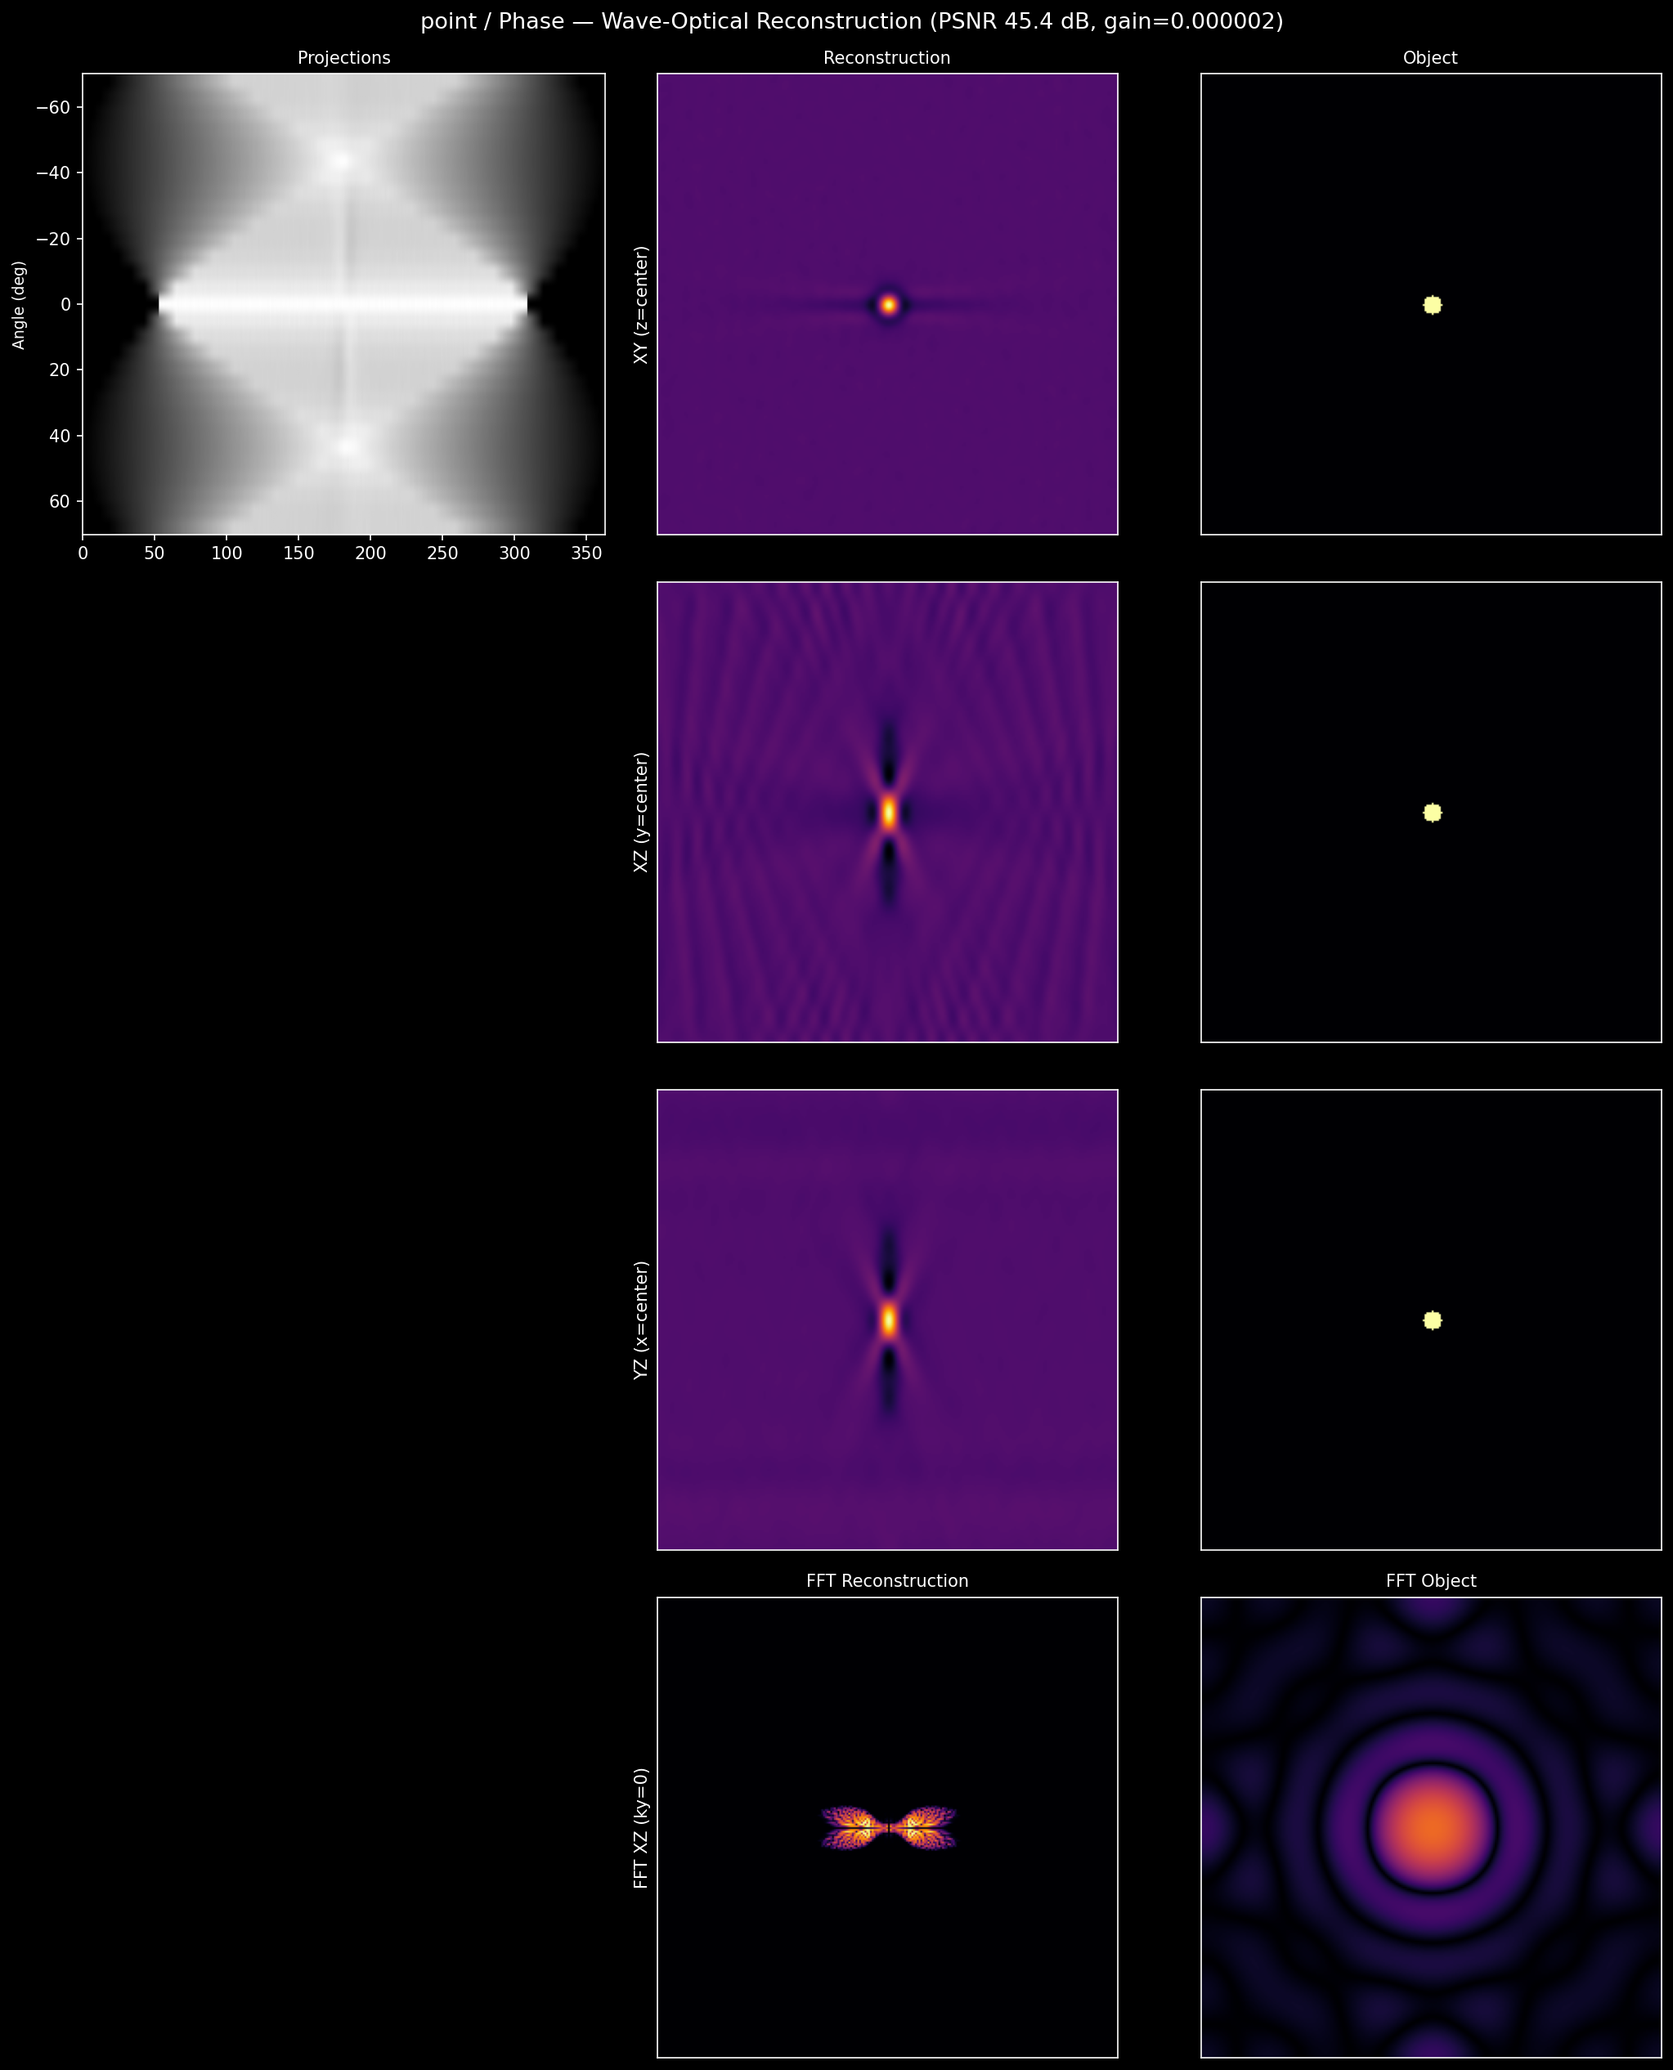
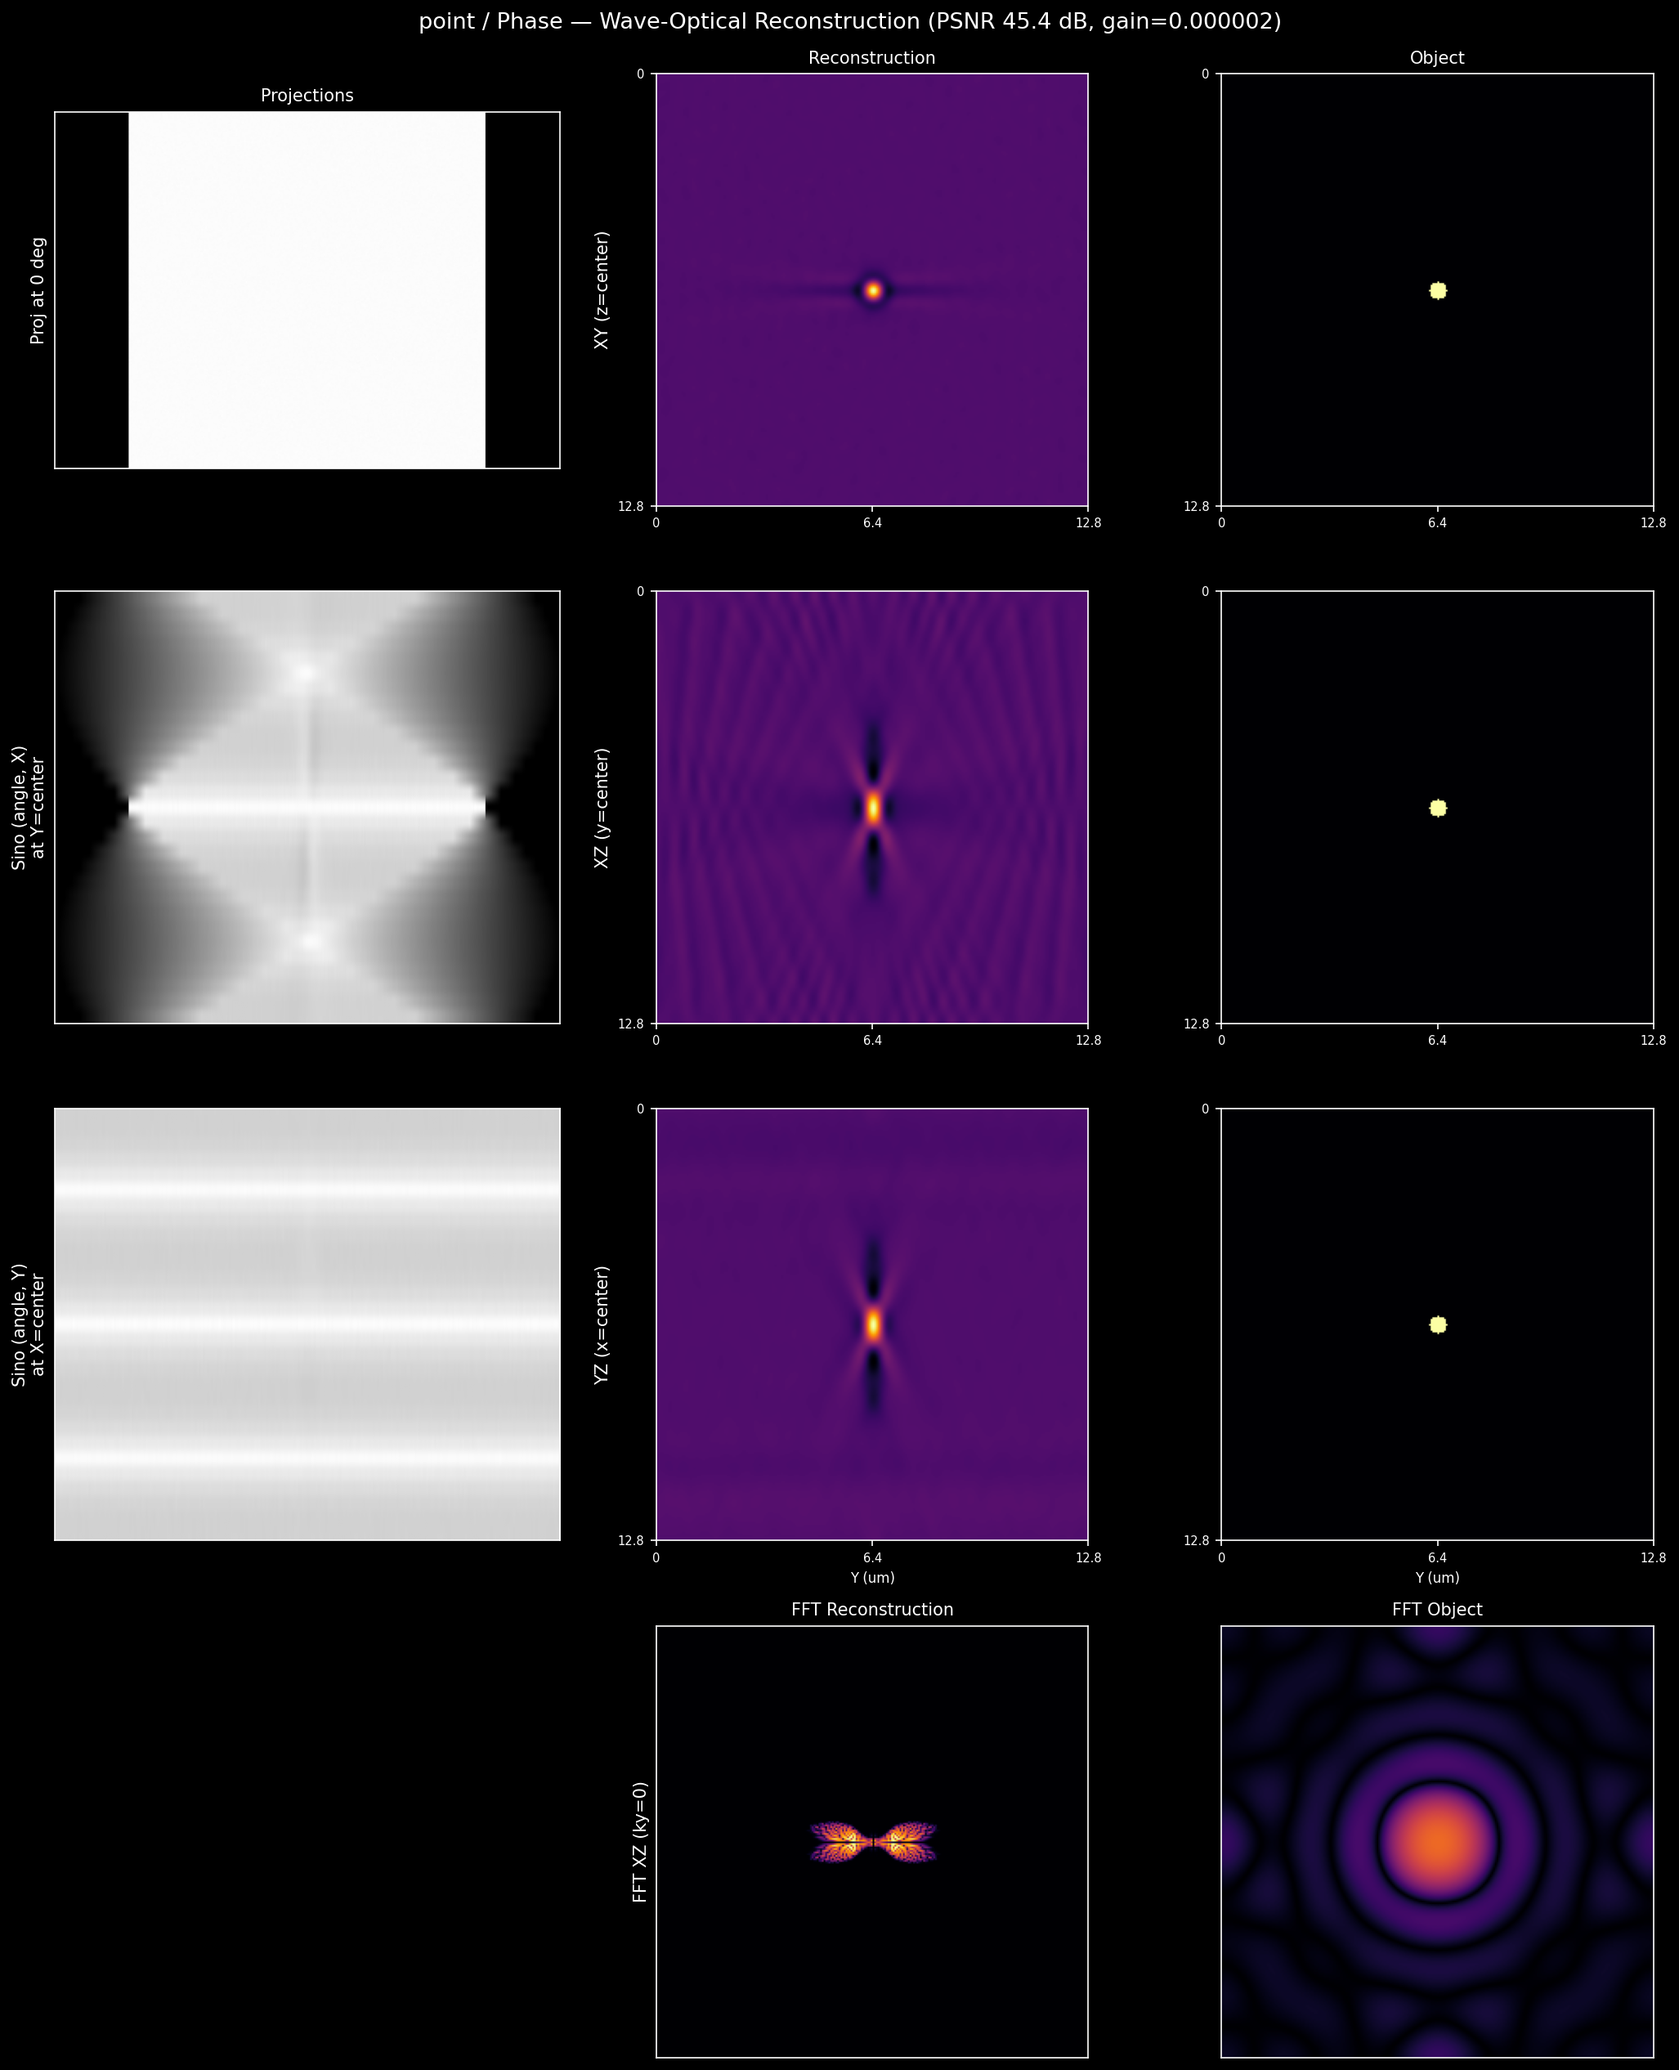
updated plots to show physical units

diff --git a/docs/examples/demos/projection_modeling/visualize_reconstruction.py b/docs/examples/demos/projection_modeling/visualize_reconstruction.py
@@ -265,6 +265,17 @@ def _plot_geometric(plate, sample, out_dir, stack_cache):
     ft_obj_sl = _ortho(ft_obj)
     views = ["XY (z=center)", "XZ (y=center)", "YZ (x=center)"]
 
+    # Physical extent in micrometers for axis labeling
+    nz, ny, nx = ZYX_SHAPE
+    phys_z = nz * VOXEL_SIZE
+    phys_y = ny * VOXEL_SIZE
+    phys_x = nx * VOXEL_SIZE
+    ext_xy = [0, phys_x, phys_y, 0]
+    ext_xz = [0, phys_x, phys_z, 0]
+    ext_yz = [0, phys_y, phys_z, 0]
+    vol_extents = [ext_xy, ext_xz, ext_yz]
+    axis_labels = [("X", "Y"), ("X", "Z"), ("Y", "Z")]
+
     fig, axes = plt.subplots(4, 3, figsize=(14, 17))
     fig.suptitle(
         f"{sample} — Limited-Angle Tomography "
@@ -278,9 +289,9 @@ def _plot_geometric(plate, sample, out_dir, stack_cache):
     # Row 0 (XY): projection at 0 deg + volume slices
     axes[0, 0].imshow(stack[ca], cmap="gray", vmin=proj_vmin, vmax=proj_vmax, aspect="equal")
     _style_ax(axes[0, 0], title=col_titles[0], ylabel=f"Proj at {PROJECTION_ANGLES[ca]} deg")
-    axes[0, 1].imshow(rec_sl[0], cmap="inferno", vmin=rec_vmin, vmax=rec_vmax, aspect="equal")
+    axes[0, 1].imshow(rec_sl[0], cmap="inferno", vmin=rec_vmin, vmax=rec_vmax, aspect="equal", extent=ext_xy)
     _style_ax(axes[0, 1], title=col_titles[1], ylabel=views[0])
-    axes[0, 2].imshow(obj_sl[0], cmap="inferno", vmin=obj_vmin, vmax=obj_vmax, aspect="equal")
+    axes[0, 2].imshow(obj_sl[0], cmap="inferno", vmin=obj_vmin, vmax=obj_vmax, aspect="equal", extent=ext_xy)
     _style_ax(axes[0, 2], title=col_titles[2])
 
     # Row 1 (XZ): sinogram at Y=center (angle vs X)
@@ -293,9 +304,9 @@ def _plot_geometric(plate, sample, out_dir, stack_cache):
         extent=[0, nx_s, PROJECTION_ANGLES[-1], PROJECTION_ANGLES[0]],
     )
     _style_ax(axes[1, 0], ylabel="Sino (angle, X)\nat Y=center")
-    axes[1, 1].imshow(rec_sl[1], cmap="inferno", vmin=rec_vmin, vmax=rec_vmax, aspect="equal")
+    axes[1, 1].imshow(rec_sl[1], cmap="inferno", vmin=rec_vmin, vmax=rec_vmax, aspect="equal", extent=ext_xz)
     _style_ax(axes[1, 1], ylabel=views[1])
-    axes[1, 2].imshow(obj_sl[1], cmap="inferno", vmin=obj_vmin, vmax=obj_vmax, aspect="equal")
+    axes[1, 2].imshow(obj_sl[1], cmap="inferno", vmin=obj_vmin, vmax=obj_vmax, aspect="equal", extent=ext_xz)
     _style_ax(axes[1, 2])
 
     # Row 2 (YZ): sinogram at X=center (angle vs Y)
@@ -308,10 +319,23 @@ def _plot_geometric(plate, sample, out_dir, stack_cache):
         extent=[0, ny_s, PROJECTION_ANGLES[-1], PROJECTION_ANGLES[0]],
     )
     _style_ax(axes[2, 0], ylabel="Sino (angle, Y)\nat X=center")
-    axes[2, 1].imshow(rec_sl[2], cmap="inferno", vmin=rec_vmin, vmax=rec_vmax, aspect="equal")
+    axes[2, 1].imshow(rec_sl[2], cmap="inferno", vmin=rec_vmin, vmax=rec_vmax, aspect="equal", extent=ext_yz)
     _style_ax(axes[2, 1], ylabel=views[2])
-    axes[2, 2].imshow(obj_sl[2], cmap="inferno", vmin=obj_vmin, vmax=obj_vmax, aspect="equal")
+    axes[2, 2].imshow(obj_sl[2], cmap="inferno", vmin=obj_vmin, vmax=obj_vmax, aspect="equal", extent=ext_yz)
     _style_ax(axes[2, 2])
+
+    # Add scale ticks (um) to reconstruction and object columns
+    for row in range(3):
+        ext = vol_extents[row]
+        xlbl, ylbl = axis_labels[row]
+        for col in [1, 2]:
+            ax = axes[row, col]
+            ax.set_xticks([0, ext[1] / 2, ext[1]])
+            ax.set_xticklabels(["0", f"{ext[1]/2:.1f}", f"{ext[1]:.1f}"], fontsize=7)
+            ax.set_yticks([0, ext[3] if ext[3] > 0 else ext[2]])
+            ax.set_yticklabels(["0", f"{max(ext[2], ext[3]):.1f}"], fontsize=7)
+            if row == 2:
+                ax.set_xlabel(f"{xlbl} (um)", fontsize=8)
 
     # Row 3: FFT XZ slices (ky=0)
     axes[3, 0].axis("off")
@@ -334,10 +358,10 @@ def _plot_geometric(plate, sample, out_dir, stack_cache):
 # Figure: Wave-optical reconstruction
 # ---------------------------------------------------------------------------
 def _plot_wave(plate, sample, c_idx, out_dir, otf, device):
-    """Sinogram, gain-calibrated reconstruction, object, FFTs.
+    """Projection + sinograms, gain-calibrated reconstruction, object, FFTs.
 
-    Layout: 3 columns (Measurements, Reconstruction, Object) × 4 rows
-    (XY, XZ, YZ, FFT XZ) — same as geometric figures.
+    Layout: 3 columns (Projections, Reconstruction, Object) × 4 rows
+    (XY, XZ, YZ, FFT XZ) — matches geometric figures.
     """
     import matplotlib.pyplot as plt
 
@@ -349,11 +373,16 @@ def _plot_wave(plate, sample, c_idx, out_dir, otf, device):
     rec_s = alpha * rec
     psnr_val = _psnr(rec_s, obj)
 
-    sino = _stored_sinogram(plate, sample, c_idx)
+    # Full stored projection stack: (n_angles, ny, nx)
+    proj_stack = np.array(plate[f"{sample}/projections/0"]["0"][0, c_idx], dtype=np.float32)
+    n_angles, ny_s, nx_s = proj_stack.shape
+    ca = n_angles // 2  # center angle index (0 deg)
+    cy_s = ny_s // 2
+    cx_s = nx_s // 2
 
-    # Clip sinogram display at 1st percentile to reveal structure
-    sino_vmin = float(np.percentile(sino, 1))
-    sino_vmax = float(sino.max())
+    # Clip projection display at 1st percentile to reveal structure
+    proj_vmin = float(np.percentile(proj_stack, 1))
+    proj_vmax = float(proj_stack.max())
 
     obj_vmin, obj_vmax = float(obj.min()), float(obj.max())
     rec_vmin, rec_vmax = float(rec_s.min()), float(rec_s.max())
@@ -368,6 +397,17 @@ def _plot_wave(plate, sample, c_idx, out_dir, otf, device):
     ft_obj_sl = _ortho(ft_obj)
     views = ["XY (z=center)", "XZ (y=center)", "YZ (x=center)"]
 
+    # Physical extent in micrometers for axis labeling
+    nz, ny, nx = ZYX_SHAPE
+    phys_z = nz * VOXEL_SIZE
+    phys_y = ny * VOXEL_SIZE
+    phys_x = nx * VOXEL_SIZE
+    ext_xy = [0, phys_x, phys_y, 0]
+    ext_xz = [0, phys_x, phys_z, 0]
+    ext_yz = [0, phys_y, phys_z, 0]
+    vol_extents = [ext_xy, ext_xz, ext_yz]
+    axis_labels = [("X", "Y"), ("X", "Z"), ("Y", "Z")]
+
     fig, axes = plt.subplots(4, 3, figsize=(14, 17))
     fig.suptitle(
         f"{sample} / {ch} — Wave-Optical Reconstruction "
@@ -378,29 +418,56 @@ def _plot_wave(plate, sample, c_idx, out_dir, otf, device):
 
     col_titles = ["Projections", "Reconstruction", "Object"]
 
-    # Row 0 (XY): sinogram + volume slices
-    axes[0, 0].imshow(
-        sino,
-        cmap="gray",
-        vmin=sino_vmin,
-        vmax=sino_vmax,
-        aspect="auto",
-        extent=[0, sino.shape[1], PROJECTION_ANGLES[-1], PROJECTION_ANGLES[0]],
-    )
-    axes[0, 0].set_ylabel("Angle (deg)", fontsize=9)
-    axes[0, 0].set_title(col_titles[0], fontsize=10)
-    axes[0, 1].imshow(rec_sl[0], cmap="inferno", vmin=rec_vmin, vmax=rec_vmax, aspect="equal")
+    # Row 0 (XY): projection at 0 deg + volume slices
+    axes[0, 0].imshow(proj_stack[ca], cmap="gray", vmin=proj_vmin, vmax=proj_vmax, aspect="equal")
+    _style_ax(axes[0, 0], title=col_titles[0], ylabel=f"Proj at {PROJECTION_ANGLES[ca]} deg")
+    axes[0, 1].imshow(rec_sl[0], cmap="inferno", vmin=rec_vmin, vmax=rec_vmax, aspect="equal", extent=ext_xy)
     _style_ax(axes[0, 1], title=col_titles[1], ylabel=views[0])
-    axes[0, 2].imshow(obj_sl[0], cmap="inferno", vmin=obj_vmin, vmax=obj_vmax, aspect="equal")
+    axes[0, 2].imshow(obj_sl[0], cmap="inferno", vmin=obj_vmin, vmax=obj_vmax, aspect="equal", extent=ext_xy)
     _style_ax(axes[0, 2], title=col_titles[2])
 
-    # Rows 1-2 (XZ, YZ)
-    for row in range(1, 3):
-        axes[row, 0].axis("off")
-        axes[row, 1].imshow(rec_sl[row], cmap="inferno", vmin=rec_vmin, vmax=rec_vmax, aspect="equal")
-        _style_ax(axes[row, 1], ylabel=views[row])
-        axes[row, 2].imshow(obj_sl[row], cmap="inferno", vmin=obj_vmin, vmax=obj_vmax, aspect="equal")
-        _style_ax(axes[row, 2])
+    # Row 1 (XZ): sinogram at Y=center (angle vs X)
+    axes[1, 0].imshow(
+        proj_stack[:, cy_s, :],
+        cmap="gray",
+        vmin=proj_vmin,
+        vmax=proj_vmax,
+        aspect="auto",
+        extent=[0, nx_s, PROJECTION_ANGLES[-1], PROJECTION_ANGLES[0]],
+    )
+    _style_ax(axes[1, 0], ylabel="Sino (angle, X)\nat Y=center")
+    axes[1, 1].imshow(rec_sl[1], cmap="inferno", vmin=rec_vmin, vmax=rec_vmax, aspect="equal", extent=ext_xz)
+    _style_ax(axes[1, 1], ylabel=views[1])
+    axes[1, 2].imshow(obj_sl[1], cmap="inferno", vmin=obj_vmin, vmax=obj_vmax, aspect="equal", extent=ext_xz)
+    _style_ax(axes[1, 2])
+
+    # Row 2 (YZ): sinogram at X=center (angle vs Y)
+    axes[2, 0].imshow(
+        proj_stack[:, :, cx_s],
+        cmap="gray",
+        vmin=proj_vmin,
+        vmax=proj_vmax,
+        aspect="auto",
+        extent=[0, ny_s, PROJECTION_ANGLES[-1], PROJECTION_ANGLES[0]],
+    )
+    _style_ax(axes[2, 0], ylabel="Sino (angle, Y)\nat X=center")
+    axes[2, 1].imshow(rec_sl[2], cmap="inferno", vmin=rec_vmin, vmax=rec_vmax, aspect="equal", extent=ext_yz)
+    _style_ax(axes[2, 1], ylabel=views[2])
+    axes[2, 2].imshow(obj_sl[2], cmap="inferno", vmin=obj_vmin, vmax=obj_vmax, aspect="equal", extent=ext_yz)
+    _style_ax(axes[2, 2])
+
+    # Add scale ticks (um) to reconstruction and object columns
+    for row in range(3):
+        ext = vol_extents[row]
+        xlbl, ylbl = axis_labels[row]
+        for col in [1, 2]:
+            ax = axes[row, col]
+            ax.set_xticks([0, ext[1] / 2, ext[1]])
+            ax.set_xticklabels(["0", f"{ext[1]/2:.1f}", f"{ext[1]:.1f}"], fontsize=7)
+            ax.set_yticks([0, ext[3] if ext[3] > 0 else ext[2]])
+            ax.set_yticklabels(["0", f"{max(ext[2], ext[3]):.1f}"], fontsize=7)
+            if row == 2:
+                ax.set_xlabel(f"{xlbl} (um)", fontsize=8)
 
     # Row 3: FFT XZ slices (ky=0)
     axes[3, 0].axis("off")

diff --git a/docs/examples/demos/projection_modeling/wave_two_projections_sweep.py b/docs/examples/demos/projection_modeling/wave_two_projections_sweep.py
@@ -323,6 +323,17 @@ def plot_optimal_reconstruction(sample, ch, gt, source, best_theta, reg, niter, 
     ft_obj_sl = _ortho(ft_obj)
     views = ["XY (z=center)", "XZ (y=center)", "YZ (x=center)"]
 
+    # Physical extent in micrometers for axis labeling
+    nz, ny, nx = ZYX_SHAPE
+    phys_z = nz * VOXEL_SIZE
+    phys_y = ny * VOXEL_SIZE
+    phys_x = nx * VOXEL_SIZE
+    ext_xy = [0, phys_x, phys_y, 0]
+    ext_xz = [0, phys_x, phys_z, 0]
+    ext_yz = [0, phys_y, phys_z, 0]
+    vol_extents = [ext_xy, ext_xz, ext_yz]
+    axis_labels = [("X", "Y"), ("X", "Z"), ("Y", "Z")]
+
     fig, axes = plt.subplots(4, 3, figsize=(14, 17))
     fig.suptitle(
         f"{sample} / {ch} — Two-View Wave-Optical Reconstruction at +/-{best_theta} deg "
@@ -336,25 +347,38 @@ def plot_optimal_reconstruction(sample, ch, gt, source, best_theta, reg, niter, 
     # Row 0 (XY): projection at +theta
     axes[0, 0].imshow(proj_pos, cmap="gray", vmin=proj_vmin, vmax=proj_vmax, aspect="equal")
     _style_ax(axes[0, 0], title=col_titles[0], ylabel=f"+{best_theta} deg")
-    axes[0, 1].imshow(rec_sl[0], cmap="inferno", vmin=rec_vmin, vmax=rec_vmax, aspect="equal")
+    axes[0, 1].imshow(rec_sl[0], cmap="inferno", vmin=rec_vmin, vmax=rec_vmax, aspect="equal", extent=ext_xy)
     _style_ax(axes[0, 1], title=col_titles[1], ylabel=views[0])
-    axes[0, 2].imshow(obj_sl[0], cmap="inferno", vmin=obj_vmin, vmax=obj_vmax, aspect="equal")
+    axes[0, 2].imshow(obj_sl[0], cmap="inferno", vmin=obj_vmin, vmax=obj_vmax, aspect="equal", extent=ext_xy)
     _style_ax(axes[0, 2], title=col_titles[2])
 
     # Row 1 (XZ): projection at -theta
     axes[1, 0].imshow(proj_neg, cmap="gray", vmin=proj_vmin, vmax=proj_vmax, aspect="equal")
     _style_ax(axes[1, 0], ylabel=f"-{best_theta} deg")
-    axes[1, 1].imshow(rec_sl[1], cmap="inferno", vmin=rec_vmin, vmax=rec_vmax, aspect="equal")
+    axes[1, 1].imshow(rec_sl[1], cmap="inferno", vmin=rec_vmin, vmax=rec_vmax, aspect="equal", extent=ext_xz)
     _style_ax(axes[1, 1], ylabel=views[1])
-    axes[1, 2].imshow(obj_sl[1], cmap="inferno", vmin=obj_vmin, vmax=obj_vmax, aspect="equal")
+    axes[1, 2].imshow(obj_sl[1], cmap="inferno", vmin=obj_vmin, vmax=obj_vmax, aspect="equal", extent=ext_xz)
     _style_ax(axes[1, 2])
 
     # Row 2 (YZ): blank projection slot
     axes[2, 0].axis("off")
-    axes[2, 1].imshow(rec_sl[2], cmap="inferno", vmin=rec_vmin, vmax=rec_vmax, aspect="equal")
+    axes[2, 1].imshow(rec_sl[2], cmap="inferno", vmin=rec_vmin, vmax=rec_vmax, aspect="equal", extent=ext_yz)
     _style_ax(axes[2, 1], ylabel=views[2])
-    axes[2, 2].imshow(obj_sl[2], cmap="inferno", vmin=obj_vmin, vmax=obj_vmax, aspect="equal")
+    axes[2, 2].imshow(obj_sl[2], cmap="inferno", vmin=obj_vmin, vmax=obj_vmax, aspect="equal", extent=ext_yz)
     _style_ax(axes[2, 2])
+
+    # Add scale ticks (um) to reconstruction and object columns
+    for row in range(3):
+        ext = vol_extents[row]
+        xlbl, ylbl = axis_labels[row]
+        for col in [1, 2]:
+            ax = axes[row, col]
+            ax.set_xticks([0, ext[1] / 2, ext[1]])
+            ax.set_xticklabels(["0", f"{ext[1]/2:.1f}", f"{ext[1]:.1f}"], fontsize=7)
+            ax.set_yticks([0, ext[3] if ext[3] > 0 else ext[2]])
+            ax.set_yticklabels(["0", f"{max(ext[2], ext[3]):.1f}"], fontsize=7)
+            if row == 2:
+                ax.set_xlabel(f"{xlbl} (um)", fontsize=8)
 
     # Row 3: FFT XZ slices (ky=0)
     axes[3, 0].axis("off")

diff --git a/docs/examples/demos/projection_modeling/projection_reconstruction_results.md b/docs/examples/demos/projection_modeling/projection_reconstruction_results.md
@@ -9,8 +9,8 @@ against the unblurred ground-truth object.
 ## Forward Simulation
 
 1. Generate 3D phantom.
-2. Convolve with 3D transfer function (fluorescence OTF or phase TF).
-3. Scale to [100, 1024] detector counts; add Poisson noise.
+2. Blur with 3D transfer function (fluorescence OTF or phase TF).
+3. Scale the intensities to [100, 1024] detector counts; add Poisson noise.
 4. Compute Siddon mean-projections at 29 angles (-70 to +70 deg, 5 deg steps).
 
 ### Point
